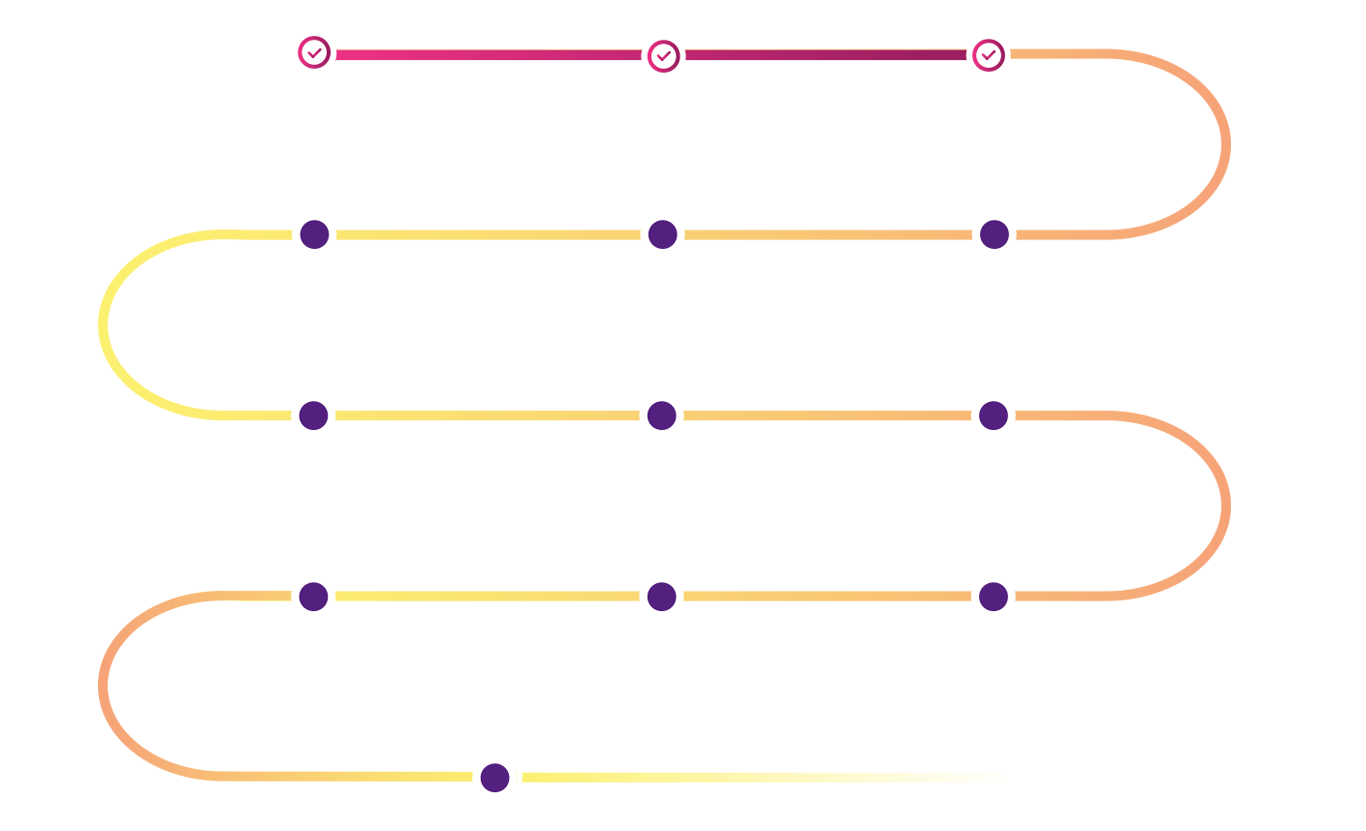
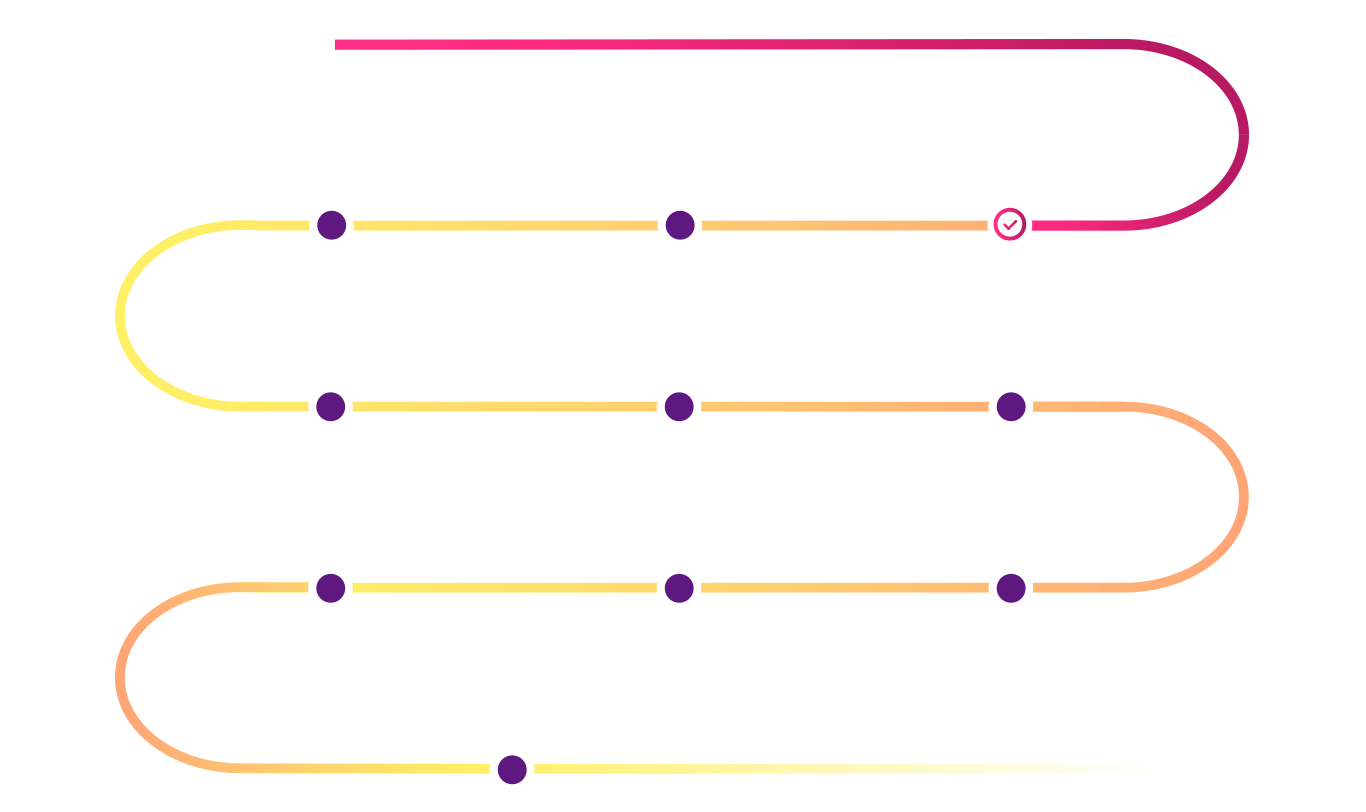
Pre-ITO is finished. Hard cap was taken. More info soon

Changed region(s): [[0.0615, 0.0308, 0.9224, 0.5234], [0.0615, 0.4926, 0.9224, 0.9236], [0.123, 0.9236, 0.7687, 0.9852]]

diff --git a/index.html b/index.html
@@ -42,8 +42,6 @@
                
                 <li><a href="#video-presentation">Video</a></li>
                
-                <li><a href="#pre-ito">Pre-ITO</a></li>
-               
                 <li><a href="#problems">Problems</a></li>
                
                 <li><a href="#our-tool">Our tool</a></li>
@@ -62,6 +60,9 @@
                
                 <li><a href="#mdl_media">Media</a></li>
                
+              <li class="link-to-teleg">
+                <a href="https://t.me/MDL_Talent_Hub">Telegram Chanel</a>
+              </li>
               <li class="link-to-download">
                 <a href="MDL_Whitepaper_0.9.12.pdf" download>Whitepaper</a>
               </li>
@@ -78,15 +79,12 @@
 <header id = "home">
     <div class="container">
       <div class="row top-part">
-        <div class="col-md-5 col-xs-12 wow zoomIn" data-wow-duration = "1s">
-          <img src="img/logo.png" alt="logo MDL">
+        <div class="mdl_logo col-md-5 col-xs-12 wow zoomIn" data-wow-duration = "1s">
+          <img src="img/mdl_logo.svg" alt="logo MDL">
         </div>
-  		  <div class="col-md-6 col-xs-12 wow zoomIn pre-ito" data-wow-duration = "1s" data-wow-delay = "0.2s">
-          <h2>Pre-ITO Has Been Started</h2>
-          <div class="buttons">
-            <a class = "button-item" href="https://t.me/MDL_Talent_Hub">Join telegram channel</a>
-            <a class = "button-item" href="#pre-ito">Check details</a>
-          </div>
+  		  <div class="col-md-5 col-md-offset-2 col-xs-12 wow zoomIn pre-ito" data-wow-duration = "1s" data-wow-delay = "0.2s">
+          <h2>Pre-ITO Hard Cap <span style="color: #662f8f;">is Taken,</span> <br> ITO is Coming in March</h2>
+          
         </div>
         </div>
      </div>
@@ -115,80 +113,6 @@
   </video>
   <i id = "video-btn" class="fa fa-play-circle-o stoped" aria-hidden="true"></i>
 </div>
-
-<div id="pre-ito">
-  <div class="container">
-    <div class="row">
-    <h2 class="module-title">PRE-ITO is ongoing</h2>
-      <div class="col-md-5 col-xs-5">
-          <div class="rev-block-wrapper">
-            <h4 class="rev-block-title wow fadeInLeft" data-wow-duration = "1s" data-wow-delay = "0.5">Information</h3>
-            <p>
-                <span class = "colored">Symbol:</span> MDL.life (pre-MDL) <br>
-                <span class = "colored">Platform:</span> Waves <br>
-                <span class = "colored">Token Supply:</span> 100,000,000 <br>
-                <span class = "colored">Date:</span> 12 Dec, 2017 - 31 Jan, 2018 <br>
-                <span class = "colored">Accepted:</span> BTC, BCC, LTC, ETH, ETC, SKY, WAVES, DASH, Zcash, YOYOW<br>
-                <span class = "colored">Token Price:</span> $0.01 <br>
-                <span class = "colored">Max individual cap:</span> $20,000 <br>
-                <span class = "colored">Soft cap:</span> $300,000 <br>
-                <span class = "colored">Hard cap:</span> $500,000 <br>
-                <span class = "colored">Projected ITO price:</span> $0.05 <br>
-                <span class = "colored">Pre-ITO interest:</span> 5x</p>
-          </div>
-      </div>
-      <div class="col-md-2 col-xs-2">
-        <img src="img/rev-line.png" alt="vertical-line"></div>
-        <div class="col-md-5 col-xs-5 last">
-        <div class="rev-block-wrapper">
-            <h4 class="rev-block-title wow fadeInRight" data-wow-duration = "1s" data-wow-delay = "0.5">How to</h3>
-            <ul>
-              <li class = "wow fadeInRight" data-wow-duration = "0.8s" data-wow-delay = "0.7s">1. Install Waves wallet (proceed to <a href="https://waveswallet.io/">waveswallet.io</a>)</li>
-              <li class = "wow fadeInRight" data-wow-duration = "0.8s" data-wow-delay = "0.9s">2. Join our telegram channel</li>
-              <li class = "wow fadeInRight" data-wow-duration = "0.8s" data-wow-delay = "1.1s">3. Notify us about your purchase intentions</li>
-            </ul>
-            <a class="button" href="https://t.me/MDL_Talent_Hub">Join telegram channel</a>
-            <br/><br>
-            <a class="button" href="https://gateway.ipfs.io/ipfs/QmUH7wTKG6bi38hLd7zHShVa5MGoga6UTTFVsZsmawr6za/MDL%20Pre-ITO%20Manual%201.1.pdf">Read Manual</a>
-          </div>
-        </div>
-    </div>
-  </div>
-</div>
-
-<div id="raised">
-    <div class="container">
-      <div class="row">
-        <h2 class="module-title"></h2>
-        <p class="raised-percent">%</p>
-        <div class="raised-line" data-max = "500000"
-             data-current = "459999">
-          <img id="progress-line" src="img/raised-line.png" alt="progress-line">
-        </div>
-        <div class="scores">
-          <span class="start"><span>$0</span></span>
-          <span class="raised_end"><span class="raised-end_score">500000</span></span>
-        </div>
-
-        <div class="raised-about">
-          <ul class="raised-about-list">
-            <li class="raised-about-list_item">
-              <span class="list-item-title">Raised</span> <br>
-              <span class="raised_raised-money raised-total">459999</span>
-            </li>
-            <li class="raised-about-list_item">
-              <span class="list-item-title">Participants</span> <br>
-              <span class="raised_raised-participant raised-total">136</span>
-            </li>
-            <li class="raised-about-list_item">
-              <span class="list-item-title">Distributed</span> <br>
-              <span class="raised_raised-distributed raised-total"></span>
-            </li>
-          </ul>
-        </div>
-      </div>
-    </div>
-  </div>
 
 <div id="problems">
       <div class="container">

diff --git a/css/style.css b/css/style.css
@@ -50,14 +50,26 @@ box-shadow: 0px -1px 18px -4px rgba(0,0,0,0.75);
 	margin-left: 20px;
 }
 #top-menu .link-to-download,
-#top-menu .link-to-blog {
+#top-menu .link-to-blog,
+#top-menu .link-to-teleg{
 	float: right;
 }
 #top-menu .link-to-download a,
-#top-menu .link-to-blog a{
+#top-menu .link-to-blog a,
+#top-menu .link-to-teleg a{
 	padding: 7px 17px;
 	border:1px solid #662f8f;
 	border-radius: 20px;
+	text-decoration: none;
+	-webkit-transition:all .5s ease-in;
+	-o-transition:all .5s ease-in;
+	transition:all .5s ease-in;
+}
+#top-menu .link-to-download a:hover,
+#top-menu .link-to-blog a:hover,
+#top-menu .link-to-teleg a:hover{
+	background-color: #662f8f;
+	color:white;
 }
 #top-menu li>a{
 	font-family: 'Ropa Sans', sans-serif;
@@ -137,17 +149,23 @@ header .down-part div{
 
 
 .pre-ito{
-	margin-top: 10px;
+	padding: 21px 0;
+	margin-top: 49px;
 	font-family: 'Ropa Sans', sans-serif;
 	font-weight: 400;
+	background-image: url(../img/home_round.png);
+	background-position: center;
+	background-size: contain;
+	background-repeat: no-repeat;
 }
 .pre-ito .buttons{
 	margin-top:50px;
 	text-align: center;
 }
 .pre-ito h2{
-	font-size: 49px;
+	font-size: 31px;
 	letter-spacing: 0;
+	text-transform: none;
 }
 .pre-ito .button-item{
 	padding: 11px 13px;
@@ -673,15 +691,14 @@ filter: progid:DXImageTransform.Microsoft.gradient( startColorstr='#673191', end
 .flip-container {
 	margin-top: 10px;	
 	margin-right: 10px;	
-	position: relative;	
 	display: inline-block;
  perspective: 1000;
 }
  /* переверните сторону при проведении мышью */
 
 .flip-container:hover .flipper,.flip-container.hover .flipper, .flip-container.flip .flipper {
+ -webkit-transform: rotateY(180deg);
  transform: rotateY(180deg);
--webkit-transform: rotateY(180deg);
 }
 
 .flip-container, .front, .back {
@@ -703,9 +720,9 @@ filter: progid:DXImageTransform.Microsoft.gradient( startColorstr='#673191', end
 
 /* скройте обратную сторону во время переворота */
 .front, .back {
- backface-visibility: hidden;
--webkit-backface-visibility: hidden;
+	-webkit-backface-visibility: hidden;
 -moz-backface-visibility: hidden;
+ backface-visibility: hidden;
  position: absolute;
  top: 0;
  left: 0;
@@ -721,8 +738,9 @@ filter: progid:DXImageTransform.Microsoft.gradient( startColorstr='#673191', end
 
 /* обратная, изначально скрытая сторона */
 .back {
- transform: rotateY(180deg);
 -webkit-transform: rotateY(180deg);
+ transform: rotateY(180deg);
+
 background-image: url(../img/123.png);
     background-size: 411px 388px;
     background-position: -91px;
@@ -750,7 +768,7 @@ background-image: url(../img/123.png);
     background-image: url(../img/roadmap-bg.png);
     background-repeat: no-repeat;
     background-size: 120%;
-    background-position: -92px;
+    background-position: -107px;
 }
 .roadmap-item{
 	position: absolute;
@@ -1027,7 +1045,7 @@ footer li:nth-child(2) img.community-link{
 
 	.roadmap-wrapper{
 		width: 970px;
-		background-position: -80px;
+		background-position: -97px;
 	}
 	.roadmap-item{
 		width: 185px;
@@ -1172,7 +1190,7 @@ footer li:nth-child(2) img.community-link{
 	.roadmap-wrapper{
 		width: 740px;
 		height: 600px;
-		background-position: -60px;
+		background-position: -73px;
 	}
 	.roadmap-item{
 		width: 165px;
@@ -1327,9 +1345,8 @@ footer li:nth-child(2) img.community-link{
 		letter-spacing: 2px;
 	}
 	header .discription-part{
-		margin-top: 60px;
+		margin: 60px auto 0;
 		width: 100%;
-		margin-right:0;
 	}
 	header .down-part{
 		display: none;
